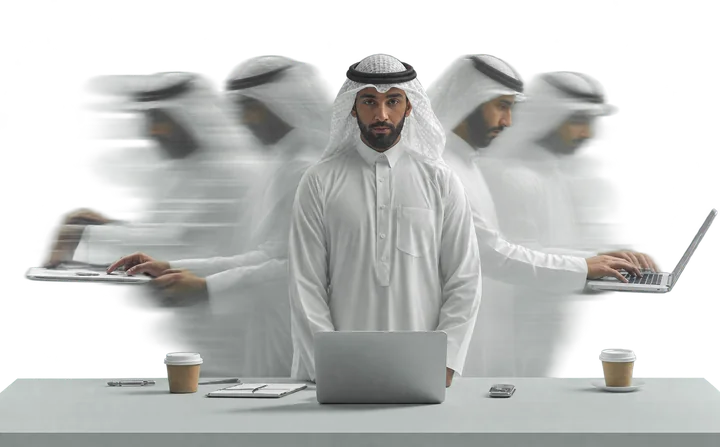
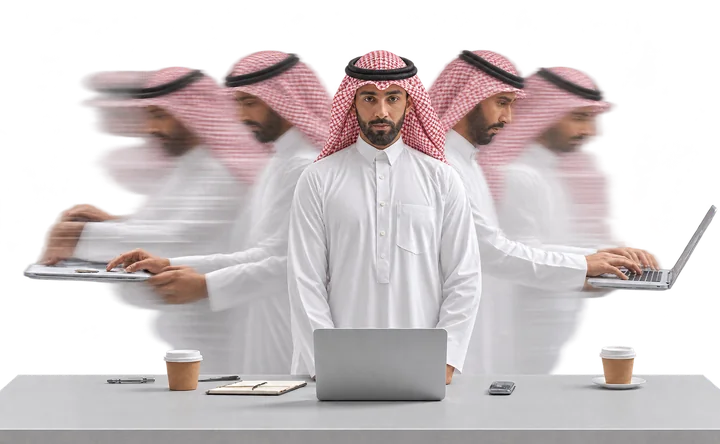
Replace multitask image with red shemagh version
Claude-Session: https://claude.ai/code/session_01Q8SfPFzKec2UT1Fop63zbA

diff --git a/index.html b/index.html
@@ -7726,7 +7726,7 @@ input, select, textarea {
         </div>
 
         <div class="dms-folder-area dms-photo-area">
-          <img class="dms-photo" src="assets/multitask-professional.webp" alt="Professional in a thobe working efficiently across multiple tasks" width="1200" height="745" loading="lazy" decoding="async">
+          <img class="dms-photo" src="assets/multitask-professional.webp?v=2" alt="Professional in a thobe and red shemagh working efficiently across multiple tasks" width="1200" height="740" loading="lazy" decoding="async">
         </div>
         <style>
           .dms-photo-area { display:flex !important; align-items:flex-end; justify-content:center; padding:0 !important; overflow:hidden; background:none !important; }

diff --git a/services.html b/services.html
@@ -7981,7 +7981,7 @@ input, select, textarea {
             <span class="as-go">View service <svg viewBox="0 0 24 24" aria-hidden="true"><path d="M5 12h14m-6-6 6 6-6 6"/></svg></span>
           </a>
           <a class="as-card" href="wps-services.html">
-            <span class="as-media as-contain"><img src="assets/svc/wps-services.webp" alt="" loading="lazy" decoding="async"></span>
+            <span class="as-media as-contain"><img src="assets/svc/wps-services.webp?v=2" alt="" loading="lazy" decoding="async"></span>
             <small>WPS Full Setup and Support Services</small>
             <h3>Wage protection, set up right and kept on track.</h3>
             <p>IBAN validation, employee registration and monthly submissions.</p>
